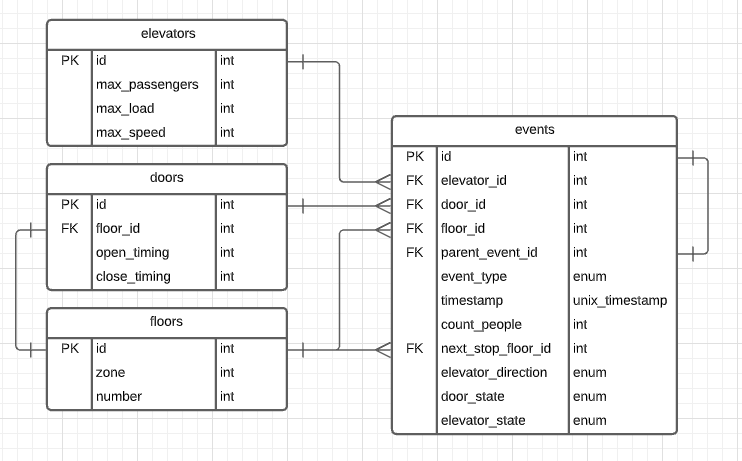
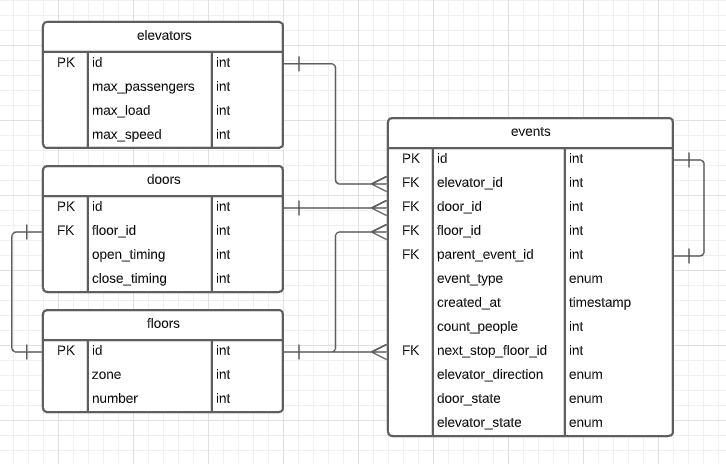
add query

diff --git a/README.md b/README.md
@@ -23,7 +23,7 @@
 
 ## Actors
 
-1. Passenger (not need as a Class)
+1. Passenger (is not needed as a Class)
 2. Elevator
 3. Floors
 4. Doors
@@ -82,8 +82,34 @@ statistics.
 - Floor event (:next_stop_floor, :elevator_direction)
 - Door event (:door_state = locked,closed, opened)
 
-With these events we can create a database model and use it for a logging.
+Base on these events we can create a database model and use it for a logging.
 
 # Database model
 
 ![image](db_model.png)
+
+## Queries
+
+### Average waiting time per passenger
+`event_type`
+- <b>landing_call</b> - when a passenger push a call button on a floor
+- <b>elevator_opens_door</b> - when an elevator has arrived and opens doors
+```
+SELECT AVG(TIME_TO_SEC(TIMEDIFF(e2.created_at, e1.created_at))) as avg_wait_time_sec
+FROM events as e1
+         INNER JOIN events as e2 ON e1.id = e2.parent_event_id
+    AND e2.event_type = 'elevator_opens_door'
+WHERE e1.event_type = 'landing_call'
+```
+
+### Average journey time per passenger
+`event_type`
+- <b>select_target_floor</b> - when a passenger push a button of target floor inside the elevator
+- <b>achieved_target_floor</b> - when an elevator has arrived to target floor
+```
+SELECT AVG(TIME_TO_SEC(TIMEDIFF(e2.created_at, e1.created_at))) as avg_journey_time_sec
+FROM events as e1
+         INNER JOIN events as e2 ON e1.id = e2.parent_event_id
+    AND e2.event_type = 'achieved_target_floor'
+WHERE e1.event_type = 'select_target_floor'
+```
